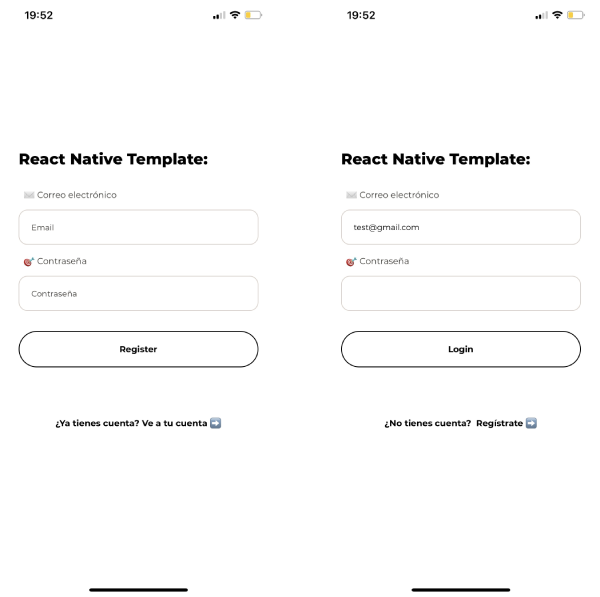
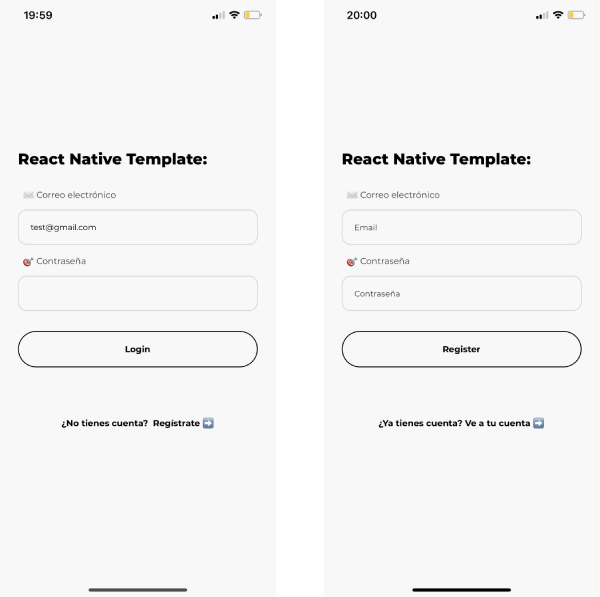
feature: added new readme image

diff --git a/style/AppStyles.js b/style/AppStyles.js
@@ -9,7 +9,7 @@ export const AppStyles = {
     red: '#e3142b',
     black: '#212721',
     grey: '#3d3935',
-    white: 'white',
+    white: '#f8f8f8',
     darkGrey: '#c5bbaa',
     whiteGrey: '#d7ccc4',
   },
